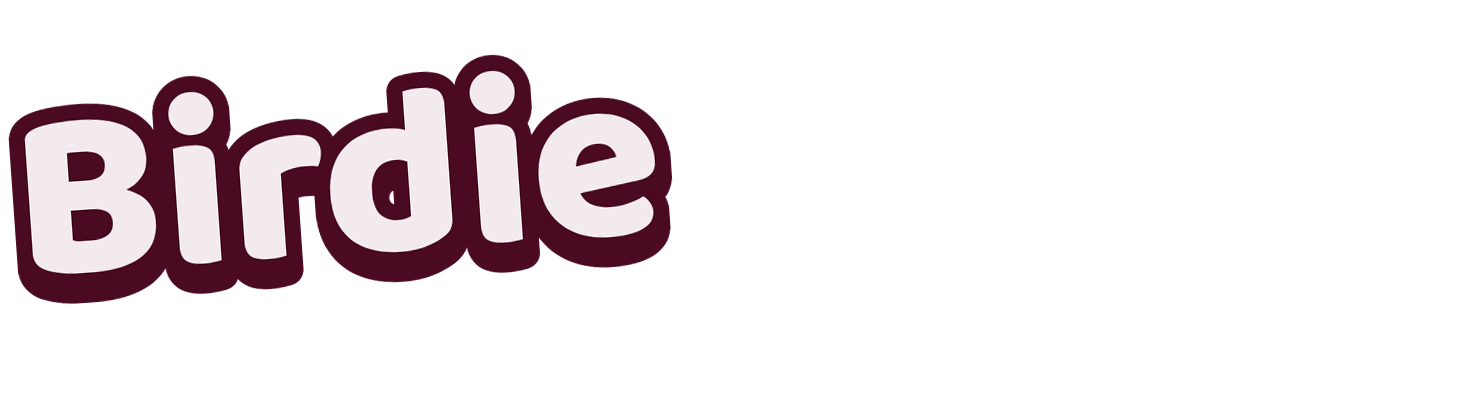
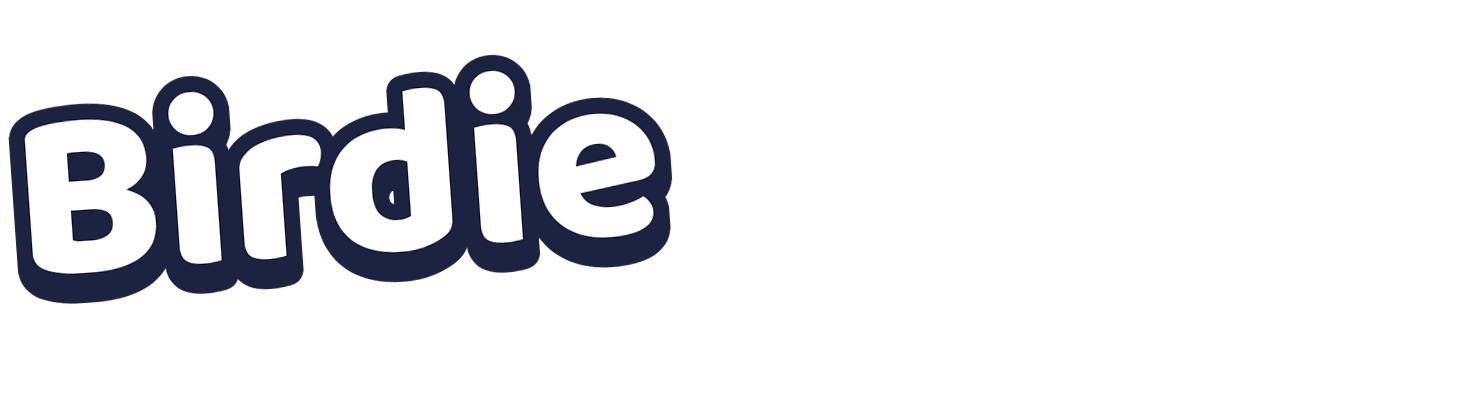
Menü seçimleri: yüzen alt bant, açılış Stadyum Pop mavisi, Oyna'da büyük sahne ve mod çipleri
yasin 23 Kas (seçim sayfası menu-ux-ui-2026-11-23): Alt bant C, Açılış A, Oyna B.
- Alt bant kenarlardan ayrık yüzen beyaz hap; sarı yalnız simgenin arkasında, ev çizgisi payı hapın altında.
- Açılış halkaları, ad ve Hazırlanıyor zemini menünün mavi/sarı/mürekkep paletine geçti (Unity + iOS yerel perde + açılış rengi).
- Oyna: zorluk şeridi kalktı (Kariyer kartı ve Hızlı maçta sürer), kutucuklar ve arkadaş kartı tek sıra mod çipine indi; sahne büyür.

Claude-Session: https://claude.ai/code/session_01DVRJnPYug3bjtSjkV7wVqC

Changed region(s): [[0.0, 0.1157, 0.4617, 0.7518]]

diff --git a/unity/BirdieSmash/Assets/BirdieSmash/Game/UI/AnaEkran.cs b/unity/BirdieSmash/Assets/BirdieSmash/Game/UI/AnaEkran.cs
@@ -54,7 +54,9 @@ namespace BirdieSmash.Game
             // 2026-11-09 (yasin: "kariyeri farklı zorluklarda oynayabilme gelmesi lazım"): seçim 5 Kas'tan beri Kariyer'deki maç
             // kartındaydı, Oyna'dan oynayan görmüyordu. Aynı dört çip (tek ayar tuytop_zorluk) Oyna düğmesinin hemen üstünde;
             // açıklama satırı yok (düğmenin alt satırı kademeyi zaten söylüyor, küçük ekranda bir satır kazanılır).
-            if (Ayar.antrenman && !usta && !root.bekleyen && !ilk) { var zs = Satir("oyna-zorluk"); c.Add(zs); ZorlukSatir(zs, c, false); }
+            // 2026-11-23 Oyna B (yasin seçti, menu-ux-ui-2026-11-23/secim.md): zorluk şeridi Oyna'dan kalktı; seçim Ayarlar › Oyun'da ve
+            // Kariyer'in maç kartında sürer (aynı tuytop_zorluk), Oyna düğmesinin alt satırı kademeyi söylemeye devam eder. Kazanılan
+            // satır sahneye (afiş) gider: ekranın yarısı mekân ve iki oyuncu, altında tek Oyna.
             if (root.bekleyen)
             {
                 c.Add(BuyukDugme(L.T("Maça devam et"), null, () => root.MacaDon()));
@@ -78,18 +80,23 @@ namespace BirdieSmash.Game
             // 2026-11-20 online arkadaş maçı; 2026-11-21 (yasin: "default olarak açık gelsin", "buton da ilgi çekici olsun") herkese
             // açık, düz düğme yerine kendi kartı (ArkadasEkran.OnlineKart): kutucuklardan önce, büyük Oyna'nın altında. İlk açılışta yok
             // (ilk yol tek düğme, §2.3).
-            if (Online.Bayrak && !ilk && !root.bekleyen) c.Add(OnlineKart());
+            // 2026-11-23 Oyna B: kart yerine aşağıdaki mod çiplerinden biri (taslakta seçilen yerleşim); online bayrağı aynı.
             // 2026-10-26 adım 7–8: Günün maçı · Hızlı maç · Antrenman. "Tam antrenman" kartı Antrenman sayfasında (Temel ders);
             // ilk açılışta (antrenman görülmedi) Günün maçı yok: ilk yol tek düğme kalsın (§2.3).
             if (ilk) return;
-            var row = Satir("karo-satir"); c.Add(row);
+            // 2026-11-23 Oyna B: üç kutucuk + arkadaş kartı tek sıra küçük mod çipine indi (simge + ad, ≥ 44 pt). Ayrıntı satırları
+            // (Tüy ödülü, yıldız, sayı) çipte gizli (USS .cip-modu), ekran okuyucu etiketinde aynen kalır; sayfaları açınca görünür.
+            var row = Satir("karo-satir"); row.AddToClassList("cip-modu"); c.Add(row);
             if (Ayar.antrenman && !root.bekleyen) row.Add(GunlukKaro());
             row.Add(Karo(Ikonlar.Simsek, L.T("Hızlı maç"), L.T("{0} sayı", Ayar.target), GameRoot.HizliSecili() != null ? KariyerVeri.Stil[GameRoot.HizliSecili()].isim : L.T("Rastgele rakip"), null, HizliMacAc, L.T("Hızlı maç") + ", " + HizliOzet()));
             var p2 = Ayar.ilerleme;
             row.Add(Karo(Ikonlar.Hedef, L.T("Antrenman"), p2.AntrenmanYildiz + "/" + Dril.ToplamYildiz, L.T("yıldız"), Ikonlar.YildizDolu, AntrenmanAc,
                 L.T("Antrenman") + ", " + L.T("{0}/{1} yıldız · Temel ders ve {2} görev", p2.AntrenmanYildiz, Dril.ToplamYildiz, Dril.Liste.Length)));
+            if (Online.Bayrak && !root.bekleyen)
+                row.Add(Karo(Ikonlar.Arkadas, L.T("Arkadaşınla"), "", null, null, () => HareketOnce(ArkadasAc), L.T("Arkadaşınla oyna") + ", " + L.T("Canlı maç · davet gönder ya da rakip bul"), "karo--arkadas"));
             // 2026-11-10 (yasin: "catch yok", kıyas: savaş geçidi şeridi, Forza seviye ödülü): sıradaki seviyenin ödülü ana ekranda
             // tek satır; dokununca Seviye yolu (Sv 30'a kadar bütün ödüller). Sv 30'da satır yok.
+            row.Query<Label>(null, "karo-etiket").ForEach(e => e.style.fontSize = e.style.fontSize.value.value * 13f / 11f);   // çipte ad tek bilgi: 11 → 13
             var sh = SvHedefSatir(); if (sh != null) c.Add(sh);
             // Menü ilk kez tam açılıyor (2026-11-12 inceleme, fikir 07:05 #3): öğreticiden sonra plaka, çipler, OYNA, kutucuklar ve
             // seviye satırı tek karede düşüyordu; nereye bakılacağı belli değildi. Yalnız bir kez (tuytop_menu_acildi): öğeler
@@ -184,7 +191,7 @@ namespace BirdieSmash.Game
             // 2026-11-02 (Ar-Ge 19:40 #1, r118): "8/63" karoya sığmayınca "8/6" satırda kalıp "3" alt satıra, yıldız ikonunun
             // altına düşüyordu (oyuncu hedefi geçmiş sanıyordu). Değer tek satır; sığmazsa %75'e kadar küçülür (Sigdir hesabı).
             // Kap ikonsuz: SigdirOlc yatay satırdaki ikonu genişlikten düşer, karonun üst satırındaki ikon burada sayılmasın.
-            var dk = new VisualElement(); dk.pickingMode = PickingMode.Ignore; d.Add(dk);
+            var dk = new VisualElement(); dk.AddToClassList("karo-deger-kap"); dk.pickingMode = PickingMode.Ignore; d.Add(dk);
             var dl = Yazi(deger, 20, "karo-deger"); dl.style.whiteSpace = WhiteSpace.NoWrap; dl.style.flexShrink = 0f; dk.Add(dl);
             float dt0 = dl.style.fontSize.value.value; dk.RegisterCallback<GeometryChangedEvent>(e => SigdirOlc(dk, dl, dt0, .75f));
             if (!string.IsNullOrEmpty(alt))

diff --git a/unity/BirdieSmash/Assets/BirdieSmash/Game/Hud.cs b/unity/BirdieSmash/Assets/BirdieSmash/Game/Hud.cs
@@ -127,7 +127,11 @@ namespace BirdieSmash.Game
         // perde: evre 0 yok, 1 kapanıyor, 2 kapalı, 3 açılıyor
         int perdeEvre; float perdeT; System.Action perdeIs; float perdeAci; float perdeMin = .15f; bool perdeAtla, perdeBek;
         public static readonly float[][] PERDE_F = { new[] { 2.6f }, new[] { .86f }, new[] { .66f }, new[] { .47f }, new[] { .30f } };
-        public static readonly string[,] PERDE_C = { { "#a3234b", "#b52a52" }, { "#d84358", "#e85563" }, { "#f9665a", "#ff7a5c" }, { "#ffa04d", "#ffb35a" }, { "#f9d272", "#fde59a" } };
+        // 2026-11-23 açılış A (yasin: "giriş splash gifiyle menü renkleri uyumsuz", seçim sayfası menu-ux-ui-2026-11-23): gün batımı
+        // halkaları Stadyum Pop mavisine geçti; dış halka = menü zemini #2659BE (perde açılınca renk değişmez), içe doğru açılır,
+        // merkez gökyüzü mavisi (beyaz top ve sarı "Smash" mürekkep konturla okunur). StreamingAssets/perde_N.png aynı renklerle
+        // bu fonksiyonun Python eşiyle üretildi (birebir; eski renklerle karşılaştırıldı, fark ≤ 1). Renk değişirse ikisi birlikte.
+        public static readonly string[,] PERDE_C = { { "#2659BE", "#2b62c8" }, { "#2f69cf", "#3874d8" }, { "#4282e0", "#4d8de6" }, { "#64a3ef", "#72aef3" }, { "#a6d3ff", "#bfe0ff" } };
 
         // 2026-10-27 yön C (koordinatör: maç HUD'u da C'ye uysun): rakip vurgusu (skor, servis noktası, rakibin sayı yazısı ve
         // dalgası) mercan #ff7a6b yerine orkide; limon "sen" olarak kalır. Skor kutusunda (kort üstünde %70 koyu) orkide Lc −53,6
@@ -1822,7 +1826,7 @@ namespace BirdieSmash.Game
         // Geçiş: disk R = köşegen × .55, 120 ms gecikmeyle 330 ms'de 0 → 1 büyür (kübik ease-out); aynı anda tüy top hız
         // çizgileriyle (−.1W, .85H) → (1.1W, .12H) 280 ms'de uçar (mantar önde, ease-out). Kapalıyken halkalar döner; ses/sahne
         // hazır değilse .6 sn sonra ortada dönen top + "Hazırlanıyor…". Açılma 350 ms küçülme (ease-in-out).
-        // Açılış (soğuk açılış): kapalı diskle başlar (iOS açılış rengi = dış halka #a3234b, CiBuild), en az .6 sn, sonra aynı küçülme.
+        // Açılış (soğuk açılış): kapalı diskle başlar (iOS açılış rengi = dış halka, CiBuild; 2026-11-23 #a3234b → #2659BE), en az .6 sn, sonra aynı küçülme.
         // Hareketi azalt: ölçek/dönme/uçuş yok, 200 ms belirme ve 250 ms solma. Top HTML'deki çizilmiş tüy top (Yukleyici.serit, 2026-10-30).
         bool perdeAcilis, kaynakVar; int acilisIyi; float acilisBek, perdeSabit = -1; Vector2 perdeKaynak;
         float acilisSpin, acilisT0 = -1, acilisAcT = -1, acilisSonT = -1;   // ekran turu: gerçek açılışın süreleri (sn)
@@ -1920,7 +1924,7 @@ namespace BirdieSmash.Game
             {   // HTML perdeBekle: ortada dönen tüy top, altında "Hazırlanıyor…" (VoiceOver'a duyurma IMGUI'de yok, bilinen eksik)
                 Vector2 p; float boy, aci, donus, a_; bool serbest; TopDurum(out p, out boy, out aci, out donus, out a_, out serbest);
                 string t = L.T("Hazırlanıyor…"); var ps = Stil(small, -1, FontStyle.Bold); var sz = ps.CalcSize(Ic(t));
-                var pr = new Rect(W / 2 - sz.x / 2 - 14 * u, H / 2 + boy * .85f, sz.x + 28 * u, sz.y + 10 * u); Fill(pr, new Color(74 / 255f, 10 / 255f, 34 / 255f, .88f)); GUI.Label(pr, t, ps);
+                var pr = new Rect(W / 2 - sz.x / 2 - 14 * u, H / 2 + boy * .85f, sz.x + 28 * u, sz.y + 10 * u); Fill(pr, new Color(27 / 255f, 35 / 255f, 64 / 255f, .88f)); GUI.Label(pr, t, ps);
             }
         }
         // Açılışta oyun adı (2026-11-19, yasin: "splash gifinde Birdie Smash ismi gözüküp kaybolmalı mı? oyun adını vurgulamak

diff --git a/unity/BirdieSmash/Assets/BirdieSmash/Game/UI/UiKok.cs b/unity/BirdieSmash/Assets/BirdieSmash/Game/UI/UiKok.cs
@@ -173,7 +173,7 @@ namespace BirdieSmash.Game
             if (govde != null) { govde.style.top = pu; govde.style.left = ps; govde.style.right = pr; }
             altKatman.style.top = pu; altKatman.style.left = ps; altKatman.style.right = pr;
             guvPay = new Vector3(pu, ps, pr);
-            altBosluk = Mathf.Max(0, sa.yMin) * s; sekmeCubugu.style.paddingBottom = altBosluk; if (altSayfa != null) altSayfa.style.paddingBottom = altBosluk + 16;
+            altBosluk = Mathf.Max(0, sa.yMin) * s; CubukAltPay(); if (altSayfa != null) altSayfa.style.paddingBottom = altBosluk + 16;
             SutunYaz(pw);
         }
 
@@ -628,6 +628,10 @@ namespace BirdieSmash.Game
         // bitince düşer, yani kaybeden oyuncu menüsüz kalmaz. Devirle gelen galibiyetli oyuncu çubuğu hep görür.
         // Ayarlar düğmesi ve Tüy hapı üst şeritte kalır (Gizlilik/Destek ilk ekrandan erişilebilir, App Store).
         bool IlkAcilis => !Ayar.antrenman && Ayar.wins == 0 && (root == null || !root.bekleyen);
+        // 2026-11-23 (yasin "Beyaz alt bant incelmeli", seçim "Alt bant C"): sekme çubuğu kenarlardan ayrık yüzen beyaz hap.
+        // Ev çizgisi payı artık çubuğun içine dolgu olarak girmiyor (bant o kadar kalınlaşıyordu); hap, payın bir kısmı kadar
+        // yukarıda durur, altında zemin görünür. Akışta kalır: içerik hapın üstünde biter, her sayfaya ayrı alt boşluk gerekmez.
+        void CubukAltPay() { if (sekmeCubugu == null) return; sekmeCubugu.style.paddingBottom = 0f; sekmeCubugu.style.marginBottom = Mathf.Max(10f, altBosluk * .6f); }
         void SekmeCubuguGorunur() { if (sekmeCubugu != null) sekmeCubugu.style.display = IlkAcilis ? DisplayStyle.None : DisplayStyle.Flex; }
 
         void HepsiniKur()
@@ -640,12 +644,14 @@ namespace BirdieSmash.Game
                 int i = (int)s; var d = new VisualElement(); d.AddToClassList("sekme"); sekmeDugme[i] = d;
                 var cizgi = new VisualElement(); cizgi.AddToClassList("sekme-cizgi"); cizgi.pickingMode = PickingMode.Ignore; d.Add(cizgi);
                 // 2026-11-07 (stüdyo AD4): simge 22 → 24, etiket 11 → 12; seçili simge USS'te büyür ve kalkar (stok iOS sekmesi gibiydi).
-                var im = Ikon(ik[i], 24, s == gez.sekme ? CTA_MUREKKEP : SEKME_SOLUK); im.AddToClassList("sekme-ikon"); d.Add(im);
-                string ad = L.T(SEKME_AD[i]); if (etiket) d.Add(Yazi(ad, 12, "sekme-yazi"));
+                // 2026-11-23 yüzen hap (yasin "Alt bant C"): sarı yalnız simgenin arkasındaki kapta, yazı mürekkep; etiket 12 → 11.
+                var im = Ikon(ik[i], 24, s == gez.sekme ? CTA_MUREKKEP : SEKME_SOLUK); im.AddToClassList("sekme-ikon");
+                var kap = new VisualElement(); kap.AddToClassList("sekme-ikon-kap"); kap.pickingMode = PickingMode.Ignore; kap.Add(im); d.Add(kap);
+                string ad = L.T(SEKME_AD[i]); if (etiket) d.Add(Yazi(ad, 11, "sekme-yazi"));
                 d.AddManipulator(new Clickable(() => SekmeAc(s))); Erisim.Etiket(d, ad, "sekme", s == gez.sekme);
                 sekmeCubugu.Add(d);
             }
-            if (altBosluk > 0) sekmeCubugu.style.paddingBottom = altBosluk;
+            CubukAltPay();
             SekmeCubuguGorunur(); GostergeKur();
             // Yazı boyutu Ayarlar'dan değişince açık tam sayfa yeniden kurulur; oyuncu yerini kaybetmesin (2026-11-20, fikir 12:06 #2).
             var eski = sayfa != null ? (sayfa.Q<ScrollView>(null, "govde-kaydir") ?? sayfa.Q<ScrollView>()) : null; Vector2 of = eski != null ? eski.scrollOffset : Vector2.zero;

diff --git a/unity/BirdieSmash/Assets/Plugins/iOS/BirdieAcilis.mm b/unity/BirdieSmash/Assets/Plugins/iOS/BirdieAcilis.mm
@@ -82,7 +82,7 @@ static void bsPerdeKur(UIWindow *unity, CGFloat aci, CGFloat topGecikme, NSStrin
     }
     if (w == nil) w = [[UIWindow alloc] initWithFrame:b];
     w.frame = b; w.windowLevel = UIWindowLevelNormal + 1; w.userInteractionEnabled = NO;
-    w.backgroundColor = [UIColor colorWithRed:0xa3 / 255.0 green:0x23 / 255.0 blue:0x4b / 255.0 alpha:1];
+    w.backgroundColor = [UIColor colorWithRed:0x26 / 255.0 green:0x59 / 255.0 blue:0xBE / 255.0 alpha:1];   // Hud PERDE_C[0,0] (2026-11-23 Stadyum Pop)
     BsPerdeVC *vc = [[BsPerdeVC alloc] init]; vc.view.backgroundColor = [UIColor clearColor]; vc.view.frame = b; w.rootViewController = vc;
     CALayer *kok = vc.view.layer; CFTimeInterval simdi = CACurrentMediaTime(), t0 = simdi - (rm ? 0 : aci / 1.2);   // t0: dönüşlerin sıfır anı (açı süreden yazılır)
 
@@ -201,7 +201,7 @@ static void bsPerdeKur(UIWindow *unity, CGFloat aci, CGFloat topGecikme, NSStrin
         UILabel *lb = [[UILabel alloc] init]; lb.text = yazi; lb.font = f; lb.textColor = [UIColor whiteColor]; lb.textAlignment = NSTextAlignmentCenter;
         CGSize sz = [lb sizeThatFits:CGSizeMake(W, H)];
         lb.frame = CGRectMake(W / 2 - sz.width / 2 - 14 * u, H / 2 + k * .85, sz.width + 28 * u, sz.height + 10 * u);
-        lb.backgroundColor = [UIColor colorWithRed:74 / 255.0 green:10 / 255.0 blue:34 / 255.0 alpha:.88];
+        lb.backgroundColor = [UIColor colorWithRed:27 / 255.0 green:35 / 255.0 blue:64 / 255.0 alpha:.88];
         [vc.view addSubview:lb]; Y = lb.layer;
     }
     if (topGecikme > 0)

diff --git a/unity/BirdieSmash/Assets/BirdieSmash/Editor/CiBuild.cs b/unity/BirdieSmash/Assets/BirdieSmash/Editor/CiBuild.cs
@@ -177,7 +177,8 @@ namespace BirdieSmash.EditorTools
             // kare girmeden geçilsin. iOS açılış görüntüsü de aynı düz renk.
             // 2026-10-27'de yön C ile #1A1221'e çekilmişti; 2026-10-29 (yasin: "html zamanlarındaki gibi olmalı") perde yeniden
             // HTML'deki halkalı diskle açıldığı için açılış rengi yine dış halka #a3234b (Apple HIG: ilk kareyle aynı renk).
-            var perde = new Color(0xa3 / 255f, 0x23 / 255f, 0x4b / 255f);
+            // 2026-11-23 açılış A: perde Stadyum Pop mavisine geçti, açılış rengi yine dış halka (#2659BE = menü zemini).
+            var perde = new Color(0x26 / 255f, 0x59 / 255f, 0xBE / 255f);
             PlayerSettings.SplashScreen.show = false; PlayerSettings.SplashScreen.showUnityLogo = false; PlayerSettings.SplashScreen.backgroundColor = perde;
             IosAcilisRengi(perde); IosAcilisTopu();
             var ikon = AssetDatabase.LoadAssetAtPath<Texture2D>(Icon);

diff --git a/tool/acilis_ad_uret.py b/tool/acilis_ad_uret.py
@@ -20,7 +20,9 @@ A = os.path.join(os.path.dirname(os.path.abspath(__file__)), '..', 'unity', 'Bir
 S = 240                                   # yazı boyu (px)
 f = ImageFont.truetype(A + 'Resources/fonts/Baloo2-ExtraBold.ttf', S)
 KONTUR, DERIN = 16, 14                    # boyun ~%7'si ve ~%6'sı
-KREM, ALTIN, BORDO = (243, 234, 238, 255), (249, 210, 114, 255), (74, 10, 34, 255)
+# 2026-11-23 açılış A (yasin: "giriş splash gifiyle menü renkleri uyumsuz"): Stadyum Pop'a geçti. "Birdie" beyaz, "Smash"
+# menünün tek vurgusu sarı #FFC93C, kontur ve derinlik menüdeki mürekkep #1B2340 (adlar eski kalsın diye değişken adları aynı).
+KREM, ALTIN, BORDO = (255, 255, 255, 255), (255, 201, 60, 255), (27, 35, 64, 255)
 d = ImageDraw.Draw(Image.new('L', (1, 1)))
 k1, k2 = 'Birdie ', 'Smash'
 w1 = d.textlength(k1, font=f)
